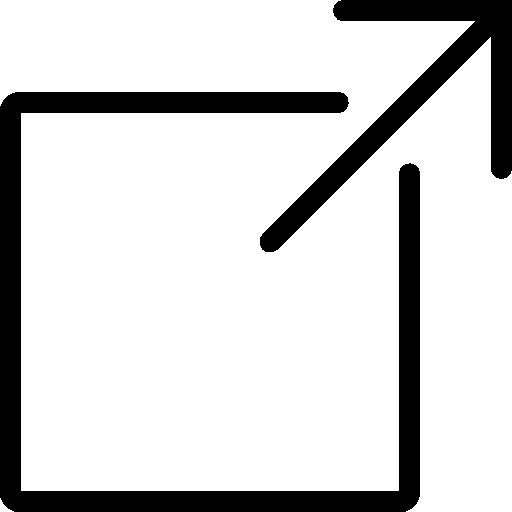
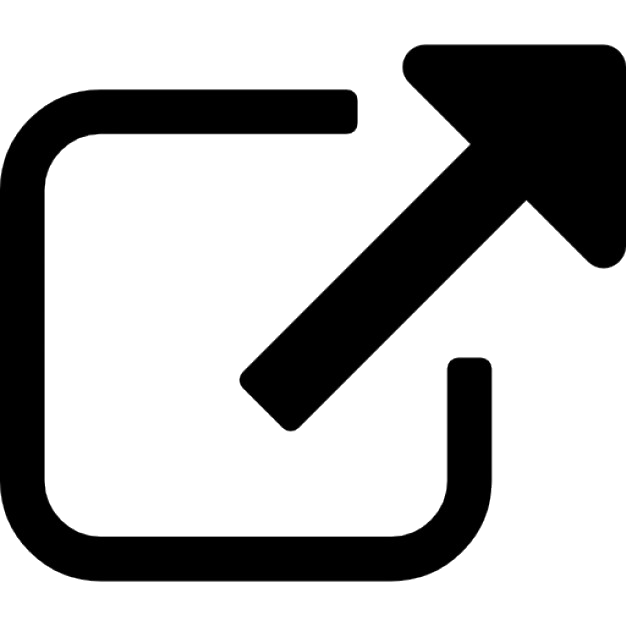
hummer update

diff --git a/hummer.html b/hummer.html
@@ -69,7 +69,7 @@
   
   		<div class="grid col-full">
   		<p class="note">When AM General started selling civilian versions of the military HumVee, these were the first national TV spots for the new pre-GM Hummer.<br>
-  		Watch the AM General <a href="https://www.youtube.com/watch?v=3t6R4LPdg-4" target="_blank"><b>10-09-92 HUMMER LAUNCH VIDEO <img src="img/exlink1.png" style="height:.8em;padding-bottom:3px;"></b></a> announcing James Earl Jones as the "Voice of HUMMER"</p>
+  		Watch the AM General <a href="https://www.youtube.com/watch?v=3t6R4LPdg-4" target="_blank" class="external-link"><b>10-09-92 HUMMER LAUNCH VIDEO</b></a> announcing James Earl Jones as the "Voice of HUMMER"</p>
   		</div>
   		
   		<figure class="grid col-one-quarter mq2-col-one-third mq3-col-full">

diff --git a/css/ls.css b/css/ls.css
@@ -243,8 +243,8 @@ h2 a:hover, h3 a:hover, h4 a:hover, h5 a:hover, h6 a:hover {
   font-size: 0.85em;
   font-weight: 400;
   line-height: 1.5;
-  margin: 0 0 1em;
-  padding: 0 0 0.5em 0.4em;
+  margin: 0 0 1em .5em;
+  padding: 0 0 0.5em 0.6em;
   color: #666;
 }
 .note a {
@@ -252,6 +252,17 @@ h2 a:hover, h3 a:hover, h4 a:hover, h5 a:hover, h6 a:hover {
 }
 .note a:hover {
   color:#000;
+}
+.external-link::after {
+  content: "";
+  display: inline-block;
+  width: 0.8em;
+  height: 0.8em;
+  margin:0 0 0.12em 0.25em;
+  background: url("../img/exlink.png") no-repeat center;
+  background-size: contain;
+  position: relative;
+  top: 2px;
 }
 /* -- GRID  https://github.com/mattberridge/Proportional-Grids/
 ------------------------------------------------------------- */
